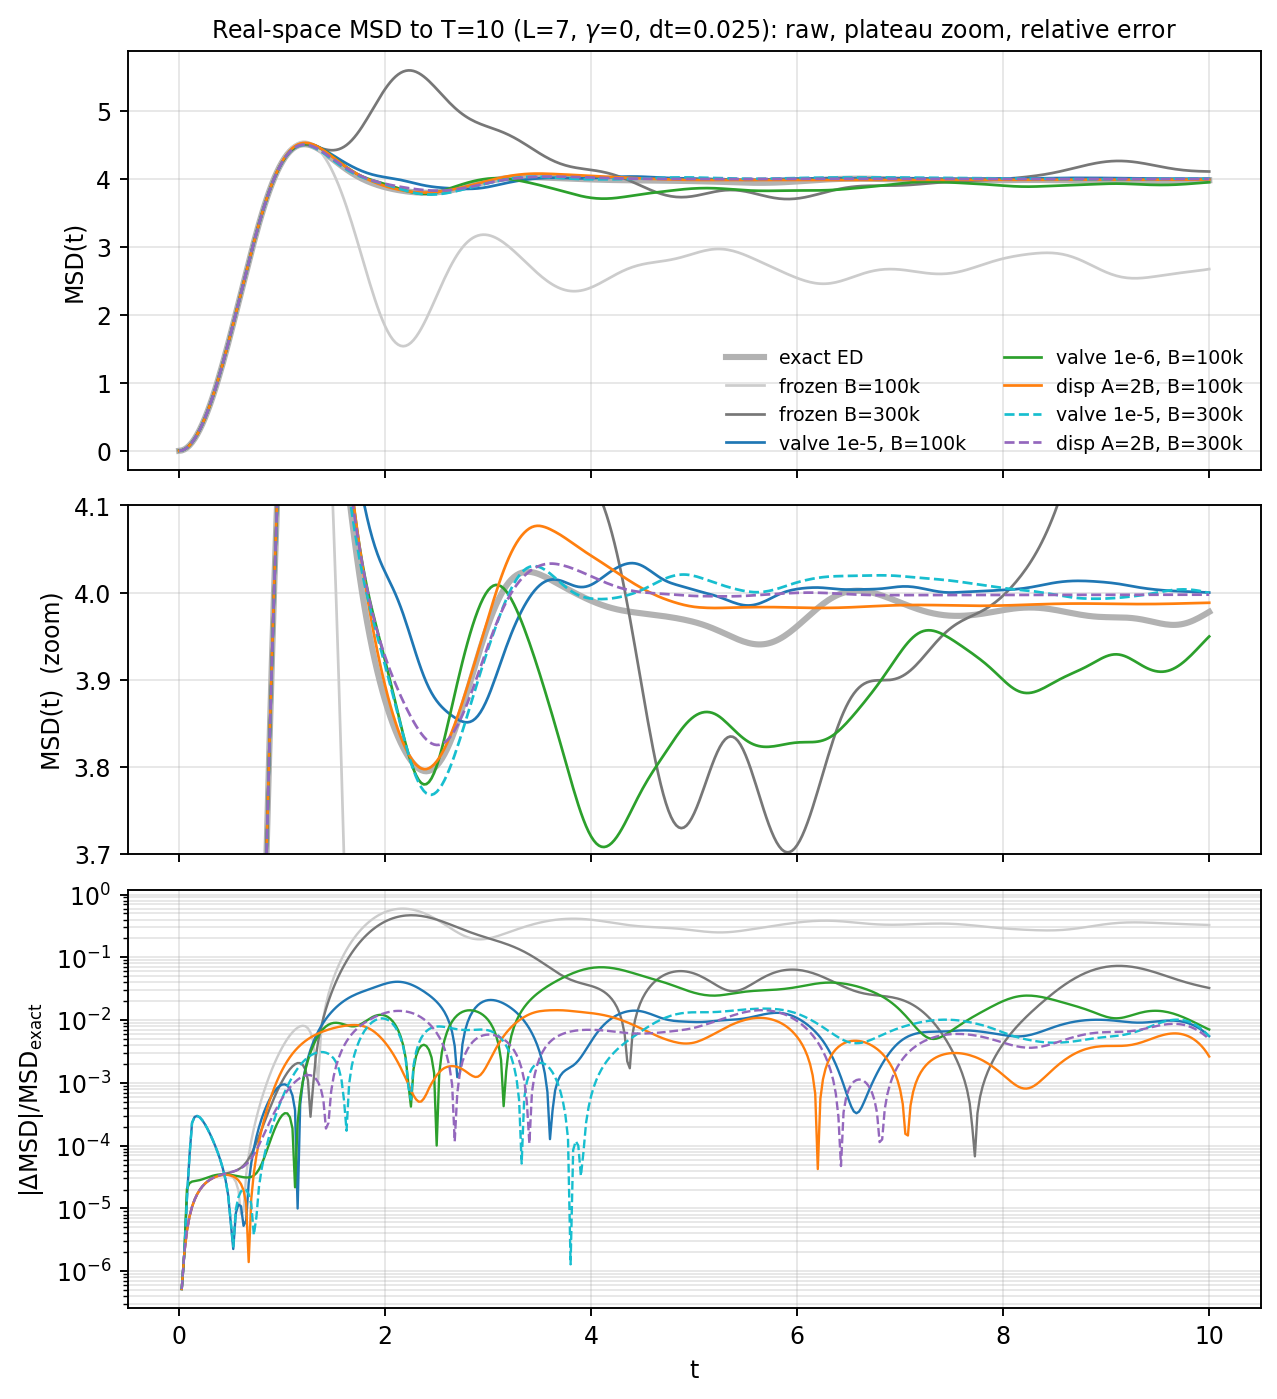
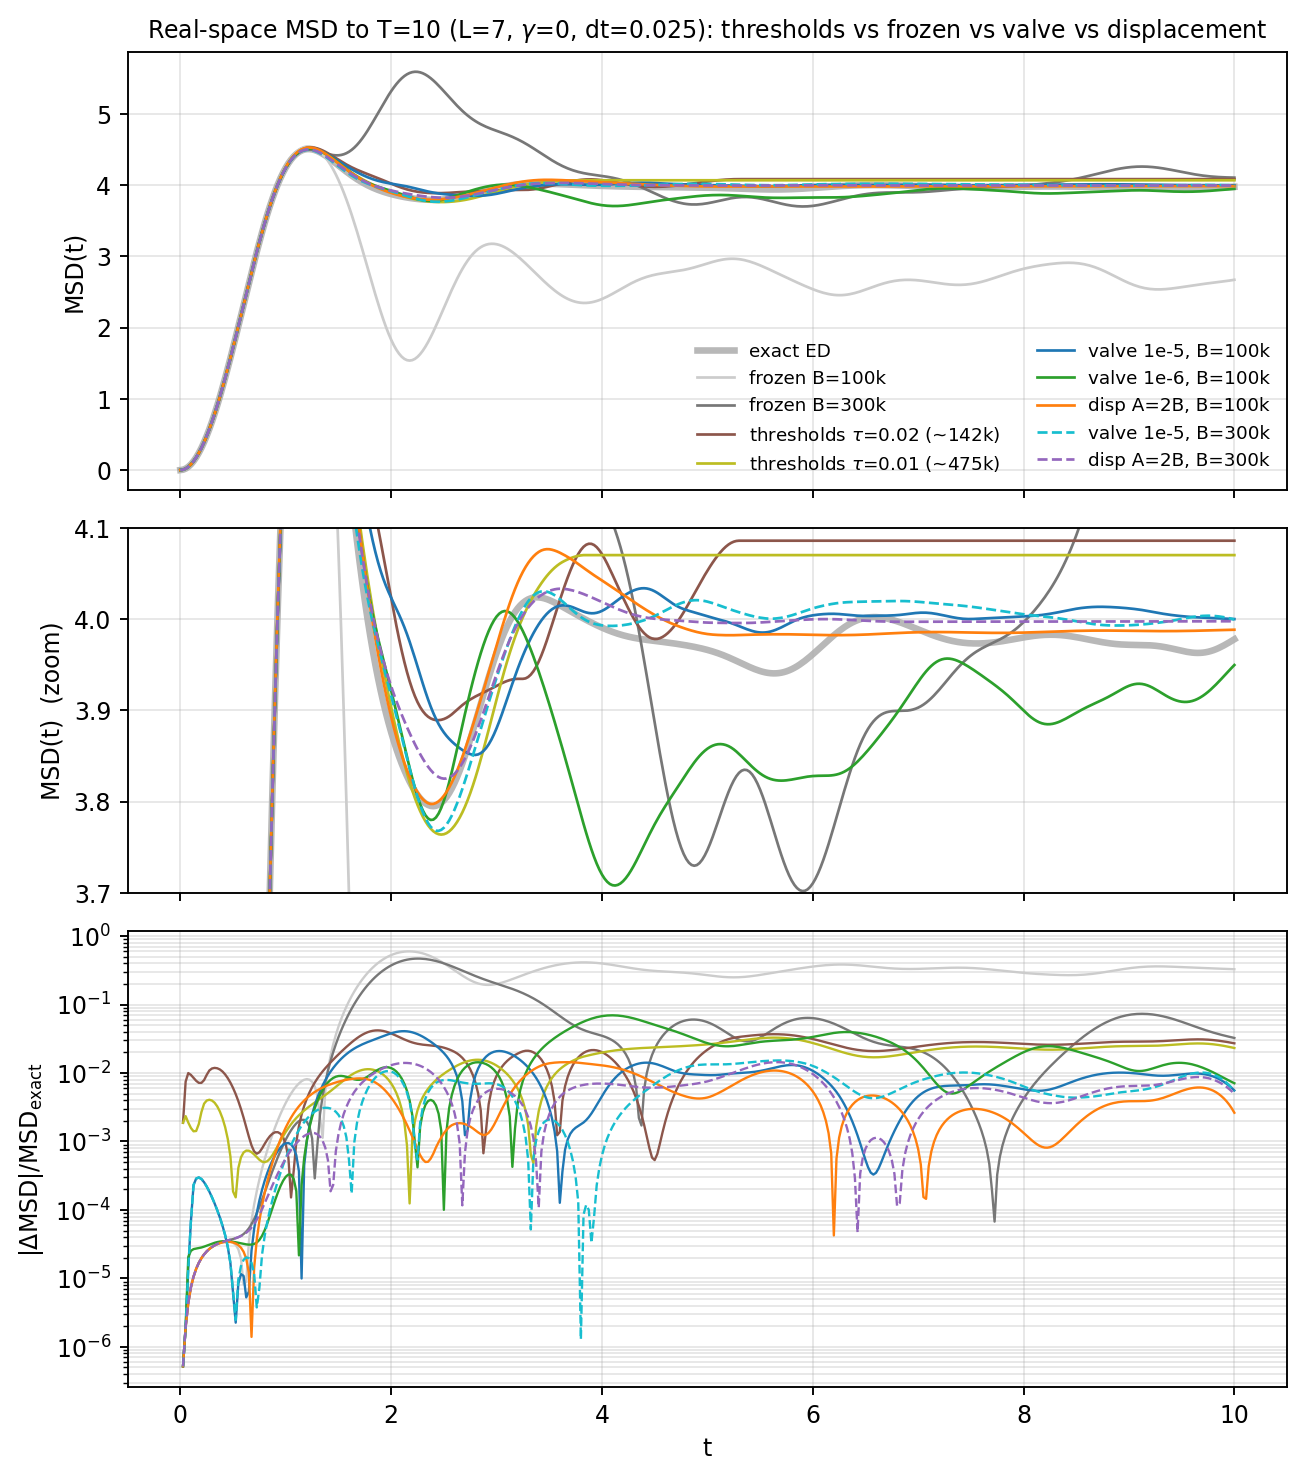
autotune(orbit-compare): threshold-only runs at T=10 - fail early and late, complete scheme taxonomy figure

diff --git a/docs/autotune/2026-07-03-orbit-compare/log.md b/docs/autotune/2026-07-03-orbit-compare/log.md
@@ -1020,3 +1020,21 @@ The zoom panel (msd_combined_T10.png, 3.7-4.1) shows valve 1e-6 drifting
 3.71-3.95 around the plateau out to t=10 while disp A=2B and valve 1e-5
 track the exact curve's fine wiggles at the ~1e-2 level.
 Combined 3-panel figure (raw / plateau zoom / rel err): msd_combined_T10.png.
+
+## Threshold-only runs added to the T=10 comparison (2026-07-05)
+
+  thresholds tau=0.02 (1e-4/K5):   median 2.48e-2  max 4.19e-2   69s   519MB  peak 142k
+  thresholds tau=0.01 (1e-4/K2.5): median 2.15e-2  max 3.29e-2  376s  1014MB  peak 475k
+(T=2 peaks were 82k/325k: uncapped bases DRIFT 1.5-1.7x by T=10.)
+vs cap schemes at SMALLER bases: valve 1e-5/100k 8.7e-3/4.1e-2 @66s/279MB;
+disp A=2B/100k 3.9e-3/1.4e-2 @177s/341MB -> thresholds are 3-6x worse on
+median at 2-3x the RSS.
+Time-resolved (msd_combined_T10.png): thresholds fail at BOTH ends -
+(a) EARLY: rel ~1e-2 already at t<0.5 (the absolute-rate admission filter
+bites hardest during the initial fast spread, where cap schemes are at
+1e-5); (b) LATE: both threshold curves FLATLINE at a wrong plateau
+(4.07/4.09 vs exact ~3.96-3.98) from t~4.5 on - the truncated dynamics
+reaches a stagnant fixed point ~2-3% high, error frozen at 2-3e-2.
+FIGURE msd_combined_T10.png is now the complete truncation-scheme taxonomy:
+frozen (catastrophic), thresholds (uncontrolled size + early/late bias),
+valve (transient episode, drop-sensitive), displacement (uniform tracking).